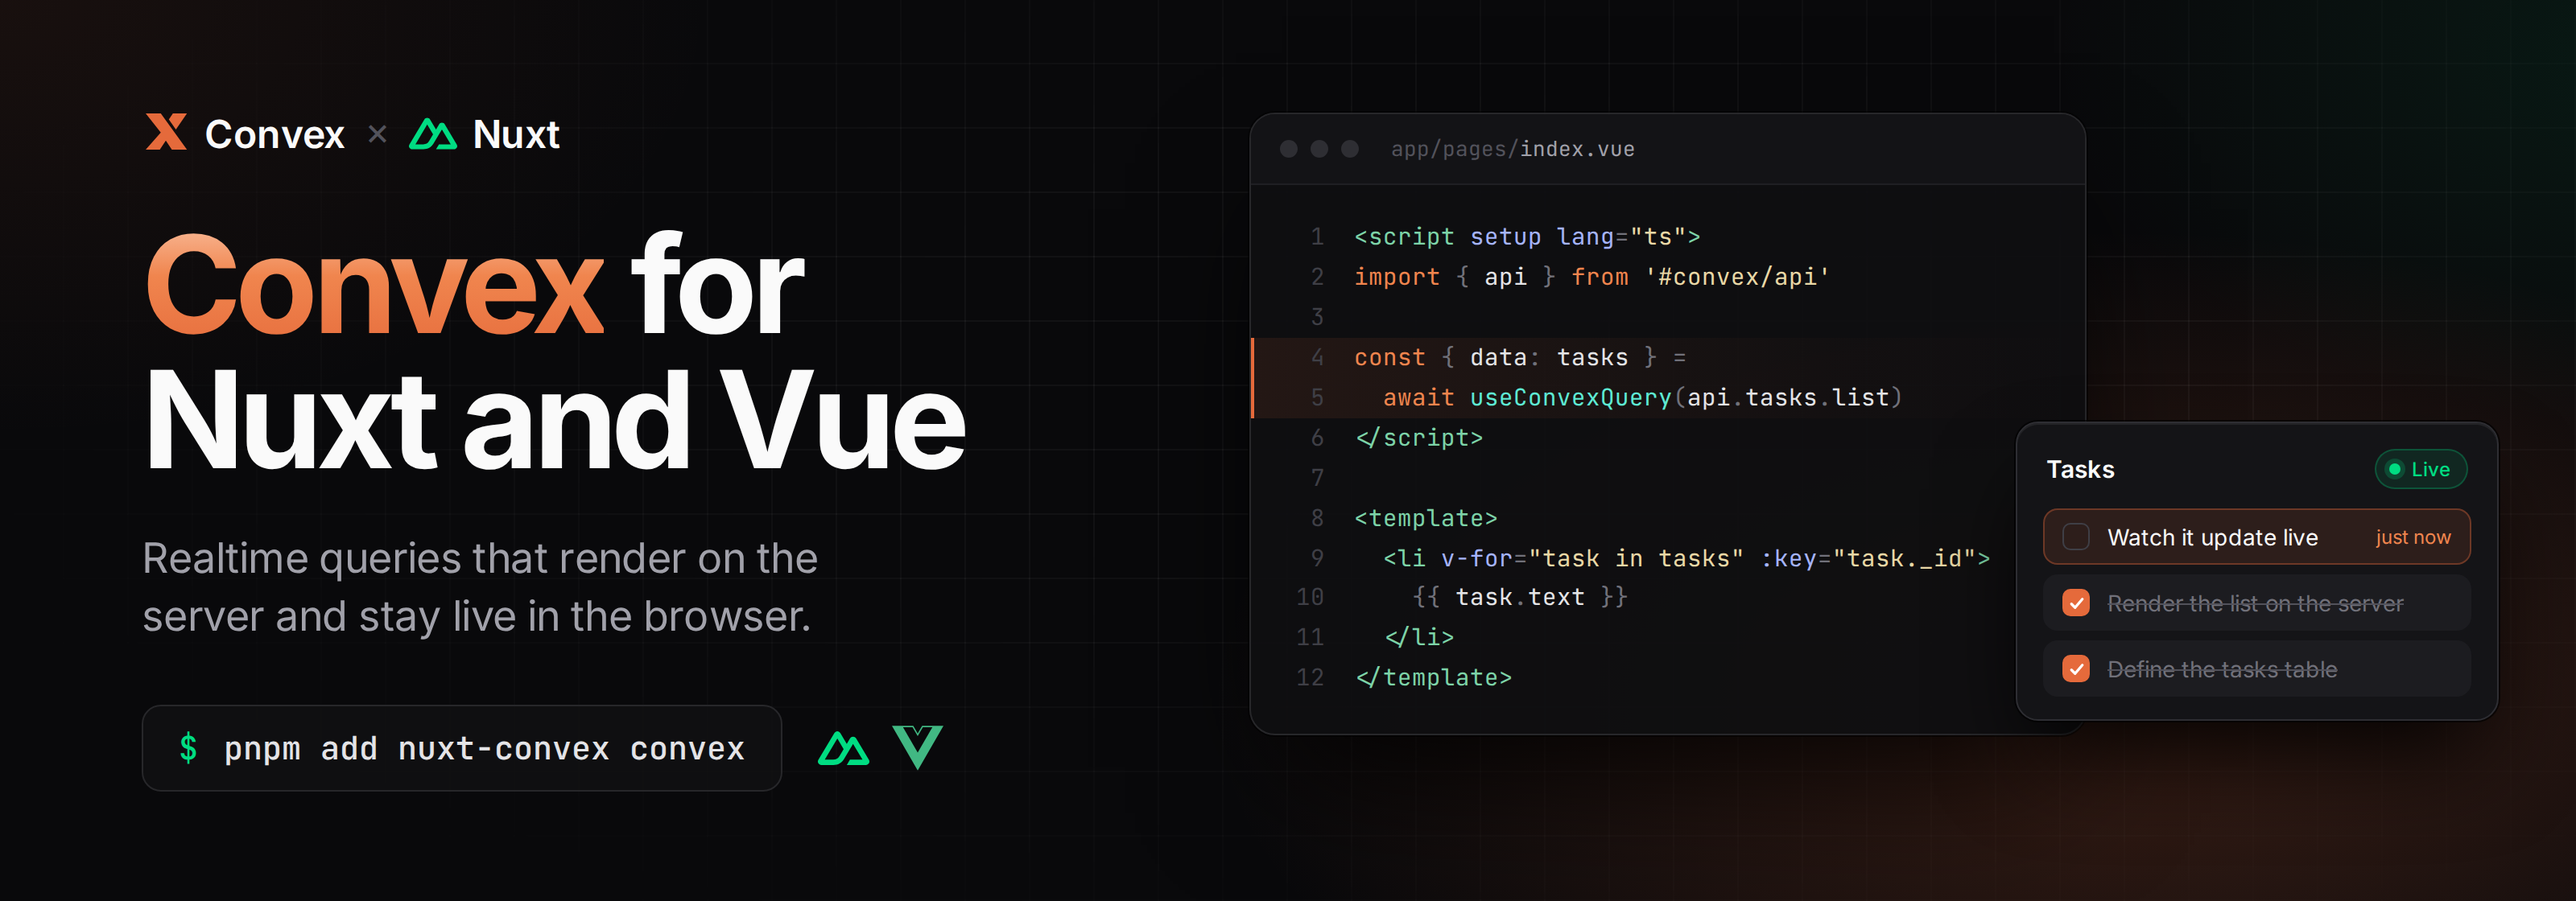
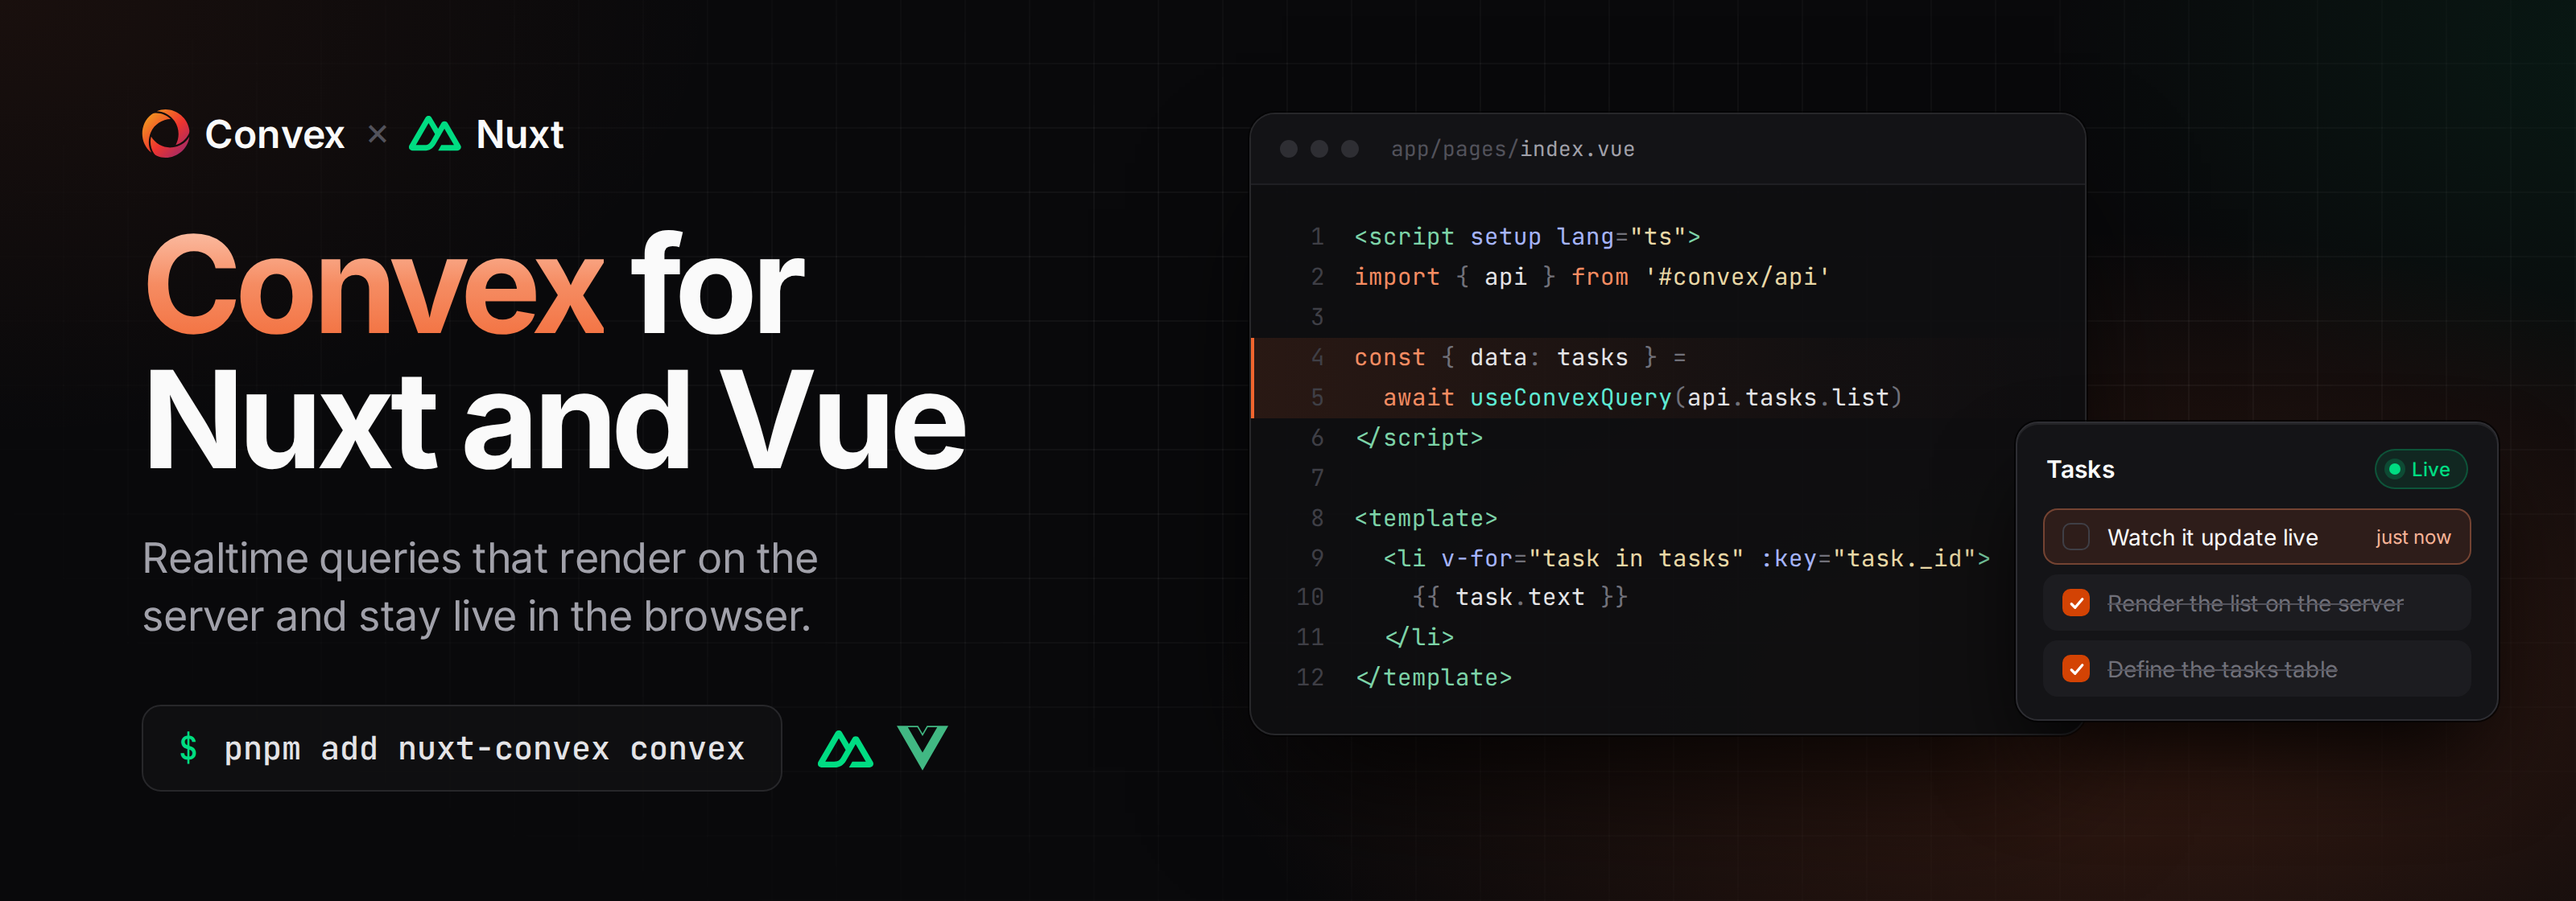
docs: draw the real Convex mark and theme ramp in the OG images

diff --git a/docs/scripts/og.ts b/docs/scripts/og.ts
@@ -7,6 +7,16 @@ import { chromium } from 'playwright-core'
 
 const out = new URL('../public/og/', import.meta.url)
 
+// The docs' Convex accent ramp (app/assets/css/main.css). Chromium reads OKLCH directly.
+const convex = {
+  200: 'oklch(0.895 0.052 46)',
+  300: 'oklch(0.825 0.09 44)',
+  400: 'oklch(0.745 0.14 42)',
+  500: 'oklch(0.675 0.185 40)',
+  600: 'oklch(0.585 0.19 38)',
+}
+const alpha = (color: string, value: number) => color.replace(')', ` / ${value})`)
+
 // The page is set as content, with no origin to load files from, so fonts go in as data URLs.
 async function font(family: string, specifier: string) {
   const file = await readFile(fileURLToPath(import.meta.resolve(specifier)))
@@ -15,9 +25,9 @@ async function font(family: string, specifier: string) {
 const fontFaces = await font('Inter', '@fontsource-variable/inter/files/inter-latin-wght-normal.woff2')
   + await font('JetBrains Mono', '@fontsource-variable/jetbrains-mono/files/jetbrains-mono-latin-wght-normal.woff2')
 
-// The same marks the docs header draws.
-const convexMark = `<svg viewBox="0 0 24 24" aria-hidden="true"><path fill="#e56a3b" d="M9.5 11.5L2 2h7.5l13 18h-7.5l-3-4.5-3 4.5H2l7.5-8.5Z"/><path fill="#e56a3b" d="M15.5 2h7l-5.5 8-3.5-5 2-3Z"/></svg>`
-const nuxtMark = `<svg viewBox="0 0 24 24" aria-hidden="true"><path fill="#00dc82" d="M13.464 19.83h8.922c.283 0 .562-.073.807-.21a1.6 1.6 0 0 0 .591-.574a1.53 1.53 0 0 0 .216-.783a1.53 1.53 0 0 0-.217-.782L17.792 7.414a1.6 1.6 0 0 0-.591-.573a1.65 1.65 0 0 0-.807-.21c-.283 0-.562.073-.807.21a1.6 1.6 0 0 0-.59.573L13.463 9.99L10.47 4.953a1.6 1.6 0 0 0-.591-.573a1.65 1.65 0 0 0-.807-.21c-.284 0-.562.073-.807.21a1.6 1.6 0 0 0-.591.573L.216 17.481a1.53 1.53 0 0 0-.217.782c0 .275.074.545.216.783a1.6 1.6 0 0 0 .59.574c.246.137.525.21.808.21h5.6c2.22 0 3.856-.946 4.982-2.79l2.733-4.593l1.464-2.457l4.395 7.382h-5.859Zm-6.341-2.46l-3.908-.002l5.858-9.842l2.923 4.921l-1.957 3.29c-.748 1.196-1.597 1.632-2.916 1.632"/></svg>`
+// The same marks the docs header draws (app/components/app/AppHeader.vue).
+const convexMark = `<svg viewBox="0 0 24 24" aria-hidden="true"><defs><linearGradient id="convex-mark" x1="0" y1="0" x2="1" y2="1"><stop offset="0" stop-color="#F3B01C"/><stop offset="0.55" stop-color="#EE342F"/><stop offset="1" stop-color="#8D2676"/></linearGradient></defs><path fill="url(#convex-mark)" d="M15.09 18.916c3.488-.387 6.776-2.246 8.586-5.348c-.857 7.673-9.247 12.522-16.095 9.545a3.47 3.47 0 0 1-1.547-1.314c-1.539-2.417-2.044-5.492-1.318-8.282c2.077 3.584 6.3 5.78 10.374 5.399m-10.501-7.65c-1.414 3.266-1.475 7.092.258 10.24c-6.1-4.59-6.033-14.41-.074-18.953a3.440 3.440 0 0 1 1.893-.707c2.825-.15 5.695.942 7.708 2.977c-4.09.04-8.073 2.66-9.785 6.442m11.757-5.437C14.283 2.951 11.053.992 7.515.933c6.84-3.105 15.253 1.929 16.17 9.37a3.6 3.6 0 0 1-.334 2.02c-1.278 2.594-3.647 4.607-6.416 5.352c2.029-3.763 1.778-8.36-.589-11.847"/></svg>`
+const nuxtMark = `<svg viewBox="0 0 48 32" class="wide" aria-hidden="true"><path fill="#00DC82" d="M26.88 32H44.64C45.2068 32.0001 45.7492 31.8009 46.24 31.52C46.7308 31.2391 47.2367 30.8865 47.52 30.4C47.8033 29.9135 48.0002 29.3615 48 28.7998C47.9998 28.2381 47.8037 27.6864 47.52 27.2001L35.52 6.56C35.2368 6.0736 34.8907 5.72084 34.4 5.44C33.9093 5.15916 33.2066 4.96 32.64 4.96C32.0734 4.96 31.5307 5.15916 31.04 5.44C30.5493 5.72084 30.2032 6.0736 29.92 6.56L26.88 11.84L20.8 1.59962C20.5165 1.11326 20.1708 0.600786 19.68 0.32C19.1892 0.0392139 18.6467 0 18.08 0C17.5133 0 16.9708 0.0392139 16.48 0.32C15.9892 0.600786 15.4835 1.11326 15.2 1.59962L0.32 27.2001C0.0363166 27.6864 0.000246899 28.2381 3.05588e-07 28.7998C-0.000246288 29.3615 0.0367437 29.9134 0.32 30.3999C0.603256 30.8864 1.10919 31.2391 1.6 31.52C2.09081 31.8009 2.63324 32.0001 3.2 32H14.4C18.8379 32 22.068 30.0092 24.32 26.24L29.76 16.8L32.64 11.84L41.44 26.88H29.76L26.88 32ZM14.24 26.88H6.4L18.08 6.72L24 16.8L20.0786 23.636C18.5831 26.0816 16.878 26.88 14.24 26.88Z"/></svg>`
 const vueMark = `<svg viewBox="0 0 24 24" aria-hidden="true"><path fill="#41b883" d="M24 1.61h-9.94L12 5.16L9.94 1.61H0l12 20.78ZM12 14.08L5.16 2.23h4.43L12 6.41l2.41-4.18h4.43Z"/></svg>`
 const check = `<svg viewBox="0 0 16 16" aria-hidden="true"><path d="M3.5 8.5l3 3 6-7" fill="none" stroke="#fff" stroke-width="2.2" stroke-linecap="round" stroke-linejoin="round"/></svg>`
 
@@ -101,9 +111,9 @@ html,body{margin:0;width:${l.width}px;height:${l.height}px;overflow:hidden}
 body{position:relative;background:#09090b;color:#fafafa;font-family:Inter,sans-serif;-webkit-font-smoothing:antialiased}
 .bg{position:absolute;inset:0;
   background:
-    radial-gradient(${l.width * 0.5}px ${l.height * 0.75}px at 82% 78%,rgb(229 106 59/.22),transparent 70%),
+    radial-gradient(${l.width * 0.5}px ${l.height * 0.75}px at 82% 78%,${alpha(convex[500], 0.2)},transparent 70%),
     radial-gradient(${l.width * 0.35}px ${l.height * 0.6}px at 104% 6%,rgb(0 220 130/.08),transparent 70%),
-    radial-gradient(${l.width * 0.4}px ${l.height * 0.7}px at 0% 0%,rgb(229 106 59/.07),transparent 70%)}
+    radial-gradient(${l.width * 0.4}px ${l.height * 0.7}px at 0% 0%,${alpha(convex[500], 0.07)},transparent 70%)}
 .grid{position:absolute;inset:0;
   background-image:linear-gradient(#ffffff0a 1px,transparent 1px),linear-gradient(90deg,#ffffff0a 1px,transparent 1px);
   background-size:40px 40px;background-position:-1px -1px;
@@ -113,9 +123,10 @@ body{position:relative;background:#09090b;color:#fafafa;font-family:Inter,sans-s
 .brand{display:flex;align-items:center;gap:12px;font-size:${l.brand}px;font-weight:600;letter-spacing:-.01em}
 .brand span{display:flex;align-items:center;gap:9px}
 .brand svg{width:${l.brand * 1.25}px;height:${l.brand * 1.25}px}
+.brand svg.wide{width:auto;height:${l.brand * 0.9}px}
 .brand .x{color:#52525b;font-weight:400;position:relative;top:-2px}
 h1{margin:auto 0 0;font-size:${l.title}px;line-height:1;letter-spacing:-.045em;font-weight:700}
-h1 .convex{background:linear-gradient(180deg,#fccdb3 0%,#f0854e 45%,#e56a3b 100%);-webkit-background-clip:text;background-clip:text;color:transparent}
+h1 .convex{background:linear-gradient(180deg,${convex[200]} 0%,${convex[400]} 50%,${convex[500]} 100%);-webkit-background-clip:text;background-clip:text;color:transparent}
 p{margin:${l.sub}px 0 0;font-size:${l.sub}px;line-height:1.38;color:#a1a1aa;letter-spacing:-.012em;font-weight:400;text-wrap:balance}
 p b{color:#e4e4e7;font-weight:500}
 .foot{margin-top:auto;display:flex;align-items:center;gap:22px}
@@ -123,6 +134,7 @@ p b{color:#e4e4e7;font-weight:500}
 .install span{color:#00dc82;margin-right:4px}
 .marks{display:flex;align-items:center;gap:14px}
 .marks svg{width:${l.install * 1.6}px;height:${l.install * 1.6}px}
+.marks svg.wide{width:auto;height:${l.install * 1.15}px}
 
 .window{position:absolute;left:${l.window.left}px;top:${l.window.top}px;width:${l.window.width}px;border:1px solid #27272a;border-radius:16px;background:#0f0f11f2;overflow:hidden;
   box-shadow:0 0 0 1px #00000080,0 40px 80px -20px #000000e6,inset 0 1px 0 #ffffff0d}
@@ -135,8 +147,8 @@ p b{color:#e4e4e7;font-weight:500}
 .line span{white-space:pre}
 .line::before{content:counter(n);counter-increment:n;width:46px;padding-right:18px;text-align:right;color:#3f3f46;flex:none}
 .code{counter-reset:n}
-.line:nth-child(4),.line:nth-child(5){background:linear-gradient(90deg,rgb(229 106 59/.10),rgb(229 106 59/.02) 70%,transparent);box-shadow:inset 2px 0 0 #e56a3b}
-.k{color:#f0854e}.s{color:#e9d8a6}.f{color:#5eead4}.t{color:#7dd3a8}.a{color:#a5b4fc}.p{color:#71717a}
+.line:nth-child(4),.line:nth-child(5){background:linear-gradient(90deg,${alpha(convex[500], 0.12)},${alpha(convex[500], 0.02)} 70%,transparent);box-shadow:inset 2px 0 0 ${convex[500]}}
+.k{color:${convex[400]}}.s{color:#e9d8a6}.f{color:#5eead4}.t{color:#7dd3a8}.a{color:#a5b4fc}.p{color:#71717a}
 
 .list{position:absolute;left:${l.list.left}px;top:${l.list.top}px;width:${l.list.width}px;border:1px solid #2e2e33;border-radius:14px;background:#141417;padding:16px 16px 14px;
   box-shadow:0 30px 60px -12px #000000f0,0 0 0 1px #0000009c,inset 0 1px 0 #ffffff12}
@@ -147,11 +159,11 @@ p b{color:#e4e4e7;font-weight:500}
 ul{margin:0;padding:0;list-style:none;display:flex;flex-direction:column;gap:6px}
 li{display:flex;align-items:center;gap:11px;padding:9px 12px;border-radius:9px;background:#1c1c20;font-size:14px;color:#d4d4d8}
 li i{flex:none;width:17px;height:17px;border-radius:5px;border:1.5px solid #3f3f46;display:flex;align-items:center;justify-content:center}
-li.done i{background:#e56a3b;border-color:#e56a3b}
+li.done i{background:${convex[600]};border-color:${convex[600]}}
 li.done span{color:#71717a;text-decoration:line-through;text-decoration-color:#52525b}
 li i svg{width:12px;height:12px}
-li.fresh{background:rgb(229 106 59/.12);box-shadow:inset 0 0 0 1px rgb(229 106 59/.35);color:#fafafa}
-li em{margin-left:auto;font-style:normal;font-size:12px;color:#f0854e}
+li.fresh{background:${alpha(convex[500], 0.12)};box-shadow:inset 0 0 0 1px ${alpha(convex[400], 0.35)};color:#fafafa}
+li em{margin-left:auto;font-style:normal;font-size:12px;color:${convex[300]}}
 </style></head><body>
 <div class="bg"></div><div class="grid"></div>
 <div class="copy">
